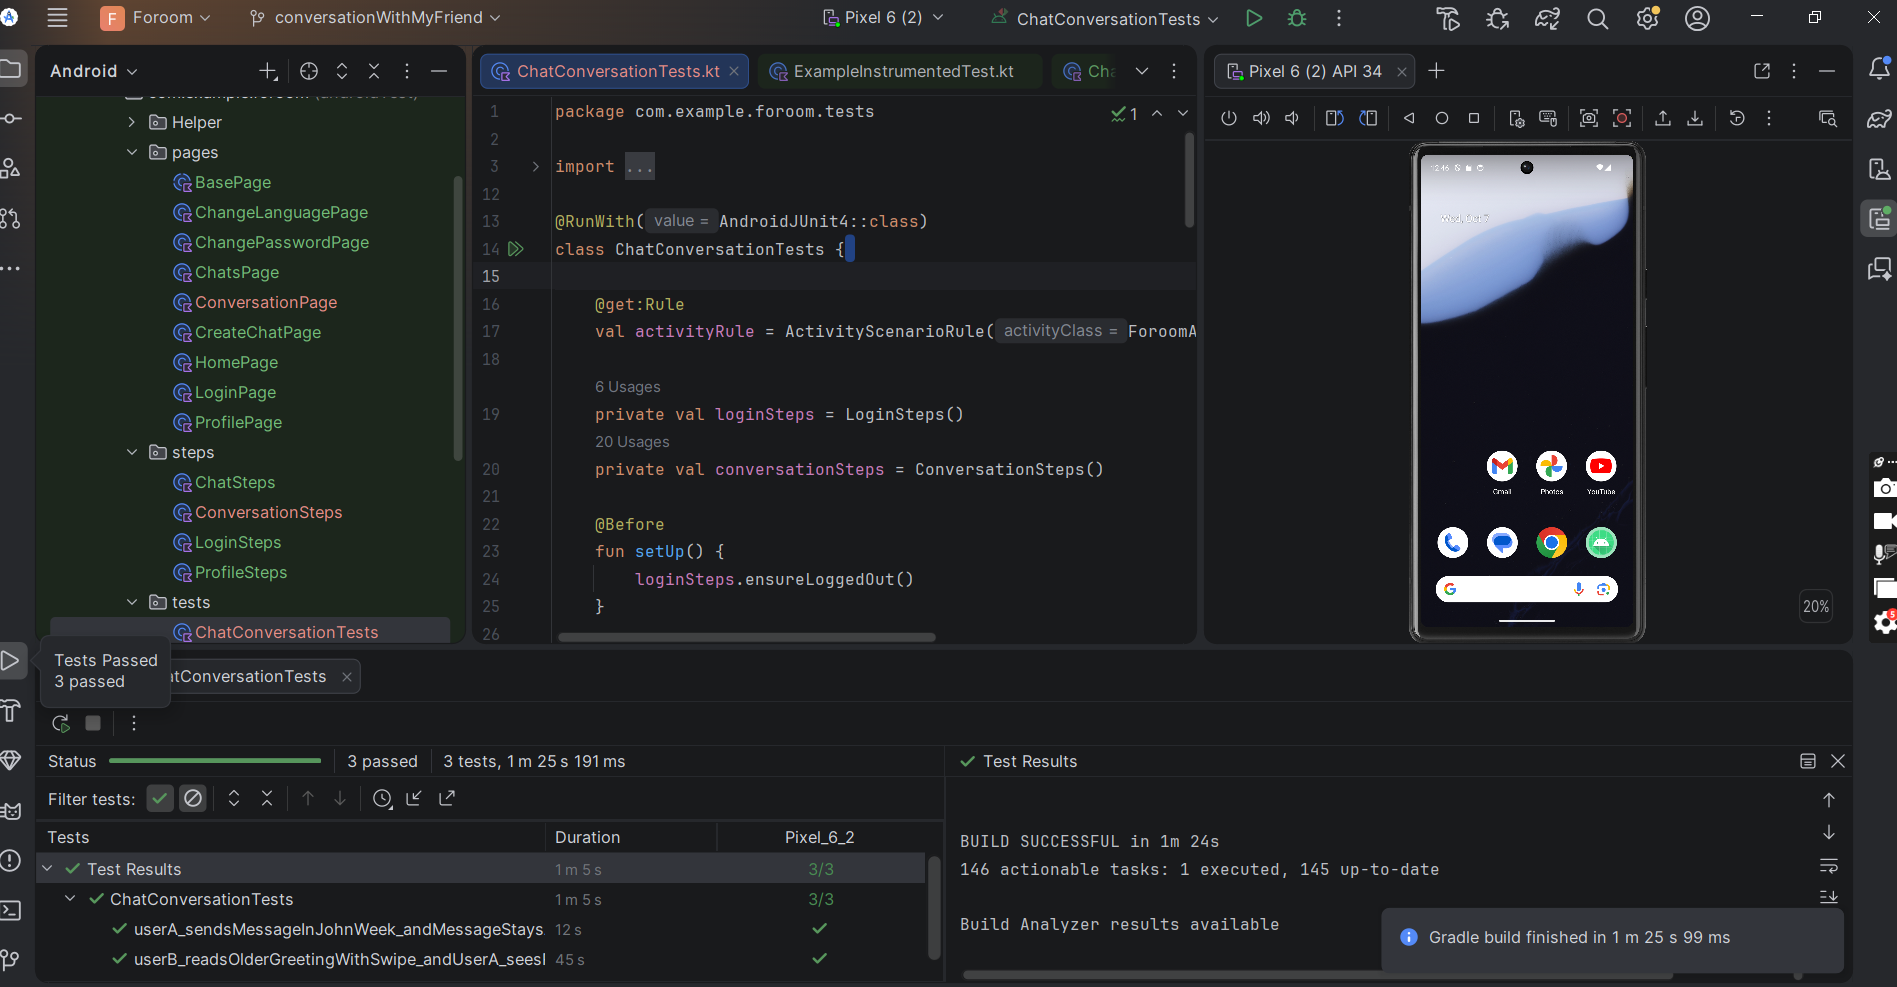
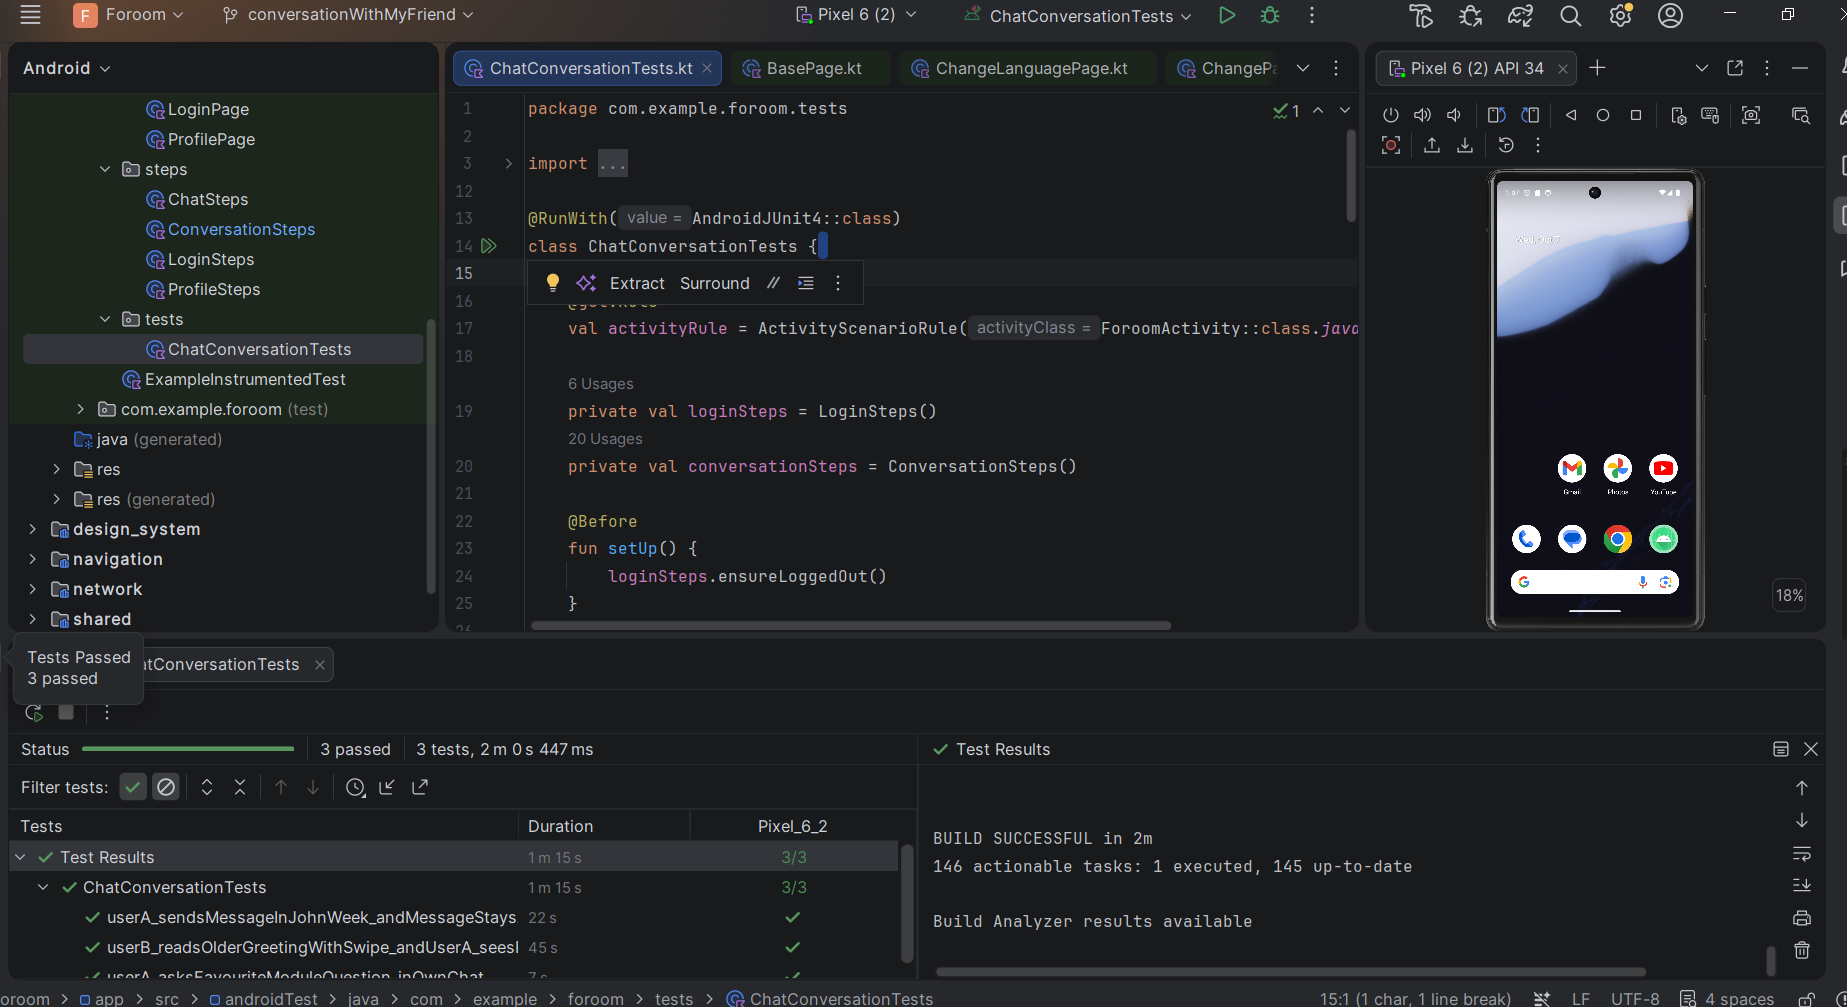
Make chat opening robust; add API 33 results

diff --git a/app/src/androidTest/java/com/example/foroom/steps/ConversationSteps.kt b/app/src/androidTest/java/com/example/foroom/steps/ConversationSteps.kt
@@ -9,25 +9,25 @@ class ConversationSteps {
     private val chatsPage = ChatsPage()
     private val conversationPage = ConversationPage()
 
-    /**
-     * Goes to the chat list, searches for [title], opens that chat and checks the right one is open.
-     * Typing in the search box reloads the list, so a tap can land on a card that is just being
-     * replaced. The tap is therefore retried a few times (bounded) until the chat really opens.
-     */
     fun openChat(title: String) {
         homePage.openChats()
         chatsPage.waitUntilDisplayed()
         chatsPage.search(title)
 
+        var lastError: Throwable? = null
         repeat(OPEN_ATTEMPTS) { attempt ->
-            chatsPage.verifyChatCardDisplayed(title)
-            if (attempt == 0) chatsPage.tapOpenChat(title) else chatsPage.clickOpenChatDirectly(title)
+            try {
+                chatsPage.verifyChatCardDisplayed(title)
+                if (attempt == 0) chatsPage.tapOpenChat(title) else chatsPage.clickOpenChatDirectly(title)
+            } catch (e: Throwable) {
+                lastError = e // e.g. the card was still moving; try again
+            }
             if (conversationPage.isOpenedWithin(title, OPEN_TIMEOUT_MS)) {
                 conversationPage.verifyOpened(title)
                 return
             }
         }
-        throw AssertionError("Chat \"$title\" did not open after $OPEN_ATTEMPTS attempts")
+        throw AssertionError("Chat \"$title\" did not open after $OPEN_ATTEMPTS attempts", lastError)
     }
 
     fun sendMessage(text: String) {
@@ -40,7 +40,6 @@ class ConversationSteps {
         conversationPage.verifyMessageDisplayed(text)
     }
 
-    /** Sends [count] numbered messages and checks that the last one arrived. Returns the last text. */
     fun sendFillerMessages(count: Int, suffix: String): String {
         var last = ""
         for (i in 1..count) {
@@ -64,7 +63,6 @@ class ConversationSteps {
         conversationPage.verifySender(text, sender)
     }
 
-    /** Swipes (with the project's swiper helper) through older history until [text] appears. */
     fun swipeToOlderMessage(text: String) {
         conversationPage.swipeUntilMessageDisplayed(text)
     }

diff --git a/app/src/androidTest/java/com/example/foroom/pages/ChatsPage.kt b/app/src/androidTest/java/com/example/foroom/pages/ChatsPage.kt
@@ -3,6 +3,8 @@ package com.example.foroom.pages
 import android.view.View
 import androidx.test.espresso.UiController
 import androidx.test.espresso.ViewAction
+import androidx.test.espresso.action.ViewActions.click
+import androidx.test.espresso.matcher.ViewMatchers.isDisplayingAtLeast
 import androidx.test.espresso.matcher.ViewMatchers.isDisplayed
 import androidx.test.espresso.matcher.ViewMatchers.hasDescendant
 import androidx.test.espresso.matcher.ViewMatchers.isAssignableFrom
@@ -43,7 +45,10 @@ class ChatsPage : BasePage() {
         waitForDisplayed(chatCardTitle(name), LONG_TIMEOUT_MS)
     }
 
-    fun tapOpenChat(name: String) = tap(openButtonOf(name), LONG_TIMEOUT_MS)
+    fun tapOpenChat(name: String) {
+        waitForDisplayed(allOf(openButtonOf(name), isDisplayingAtLeast(90)), SETTLE_TIMEOUT_MS)
+            .perform(click())
+    }
 
     fun clickOpenChatDirectly(name: String) {
         waitForDisplayed(openButtonOf(name), LONG_TIMEOUT_MS).perform(object : ViewAction {
@@ -54,5 +59,8 @@ class ChatsPage : BasePage() {
                 uiController.loopMainThreadUntilIdle()
             }
         })
+    }
+    private companion object {
+        const val SETTLE_TIMEOUT_MS = 3_000L
     }
 }
